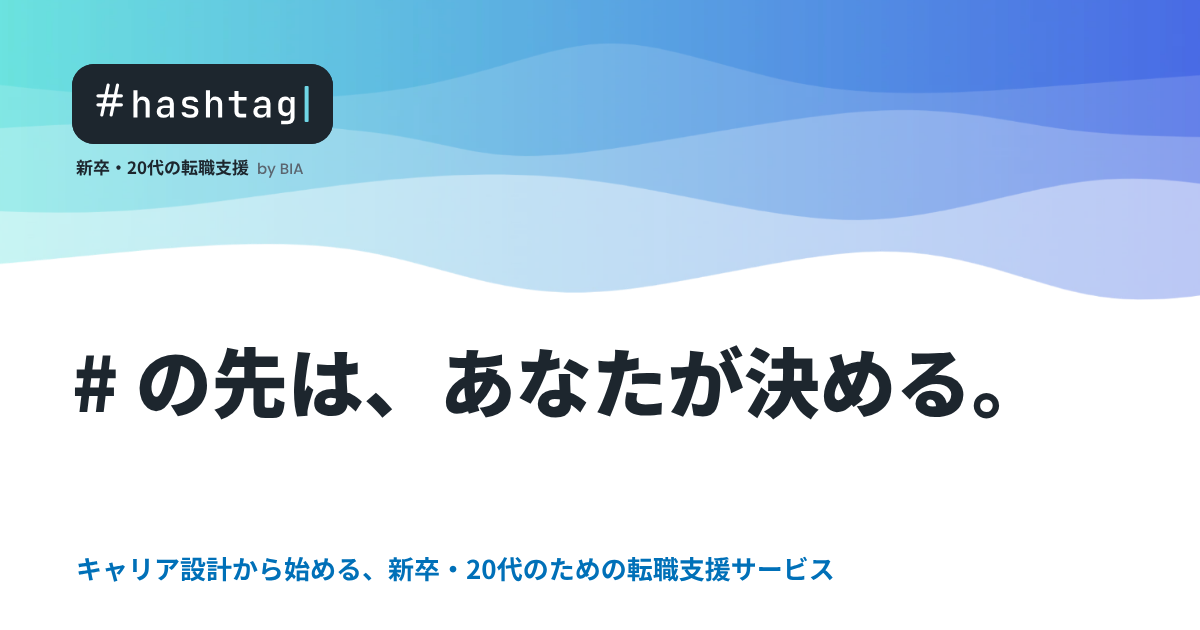
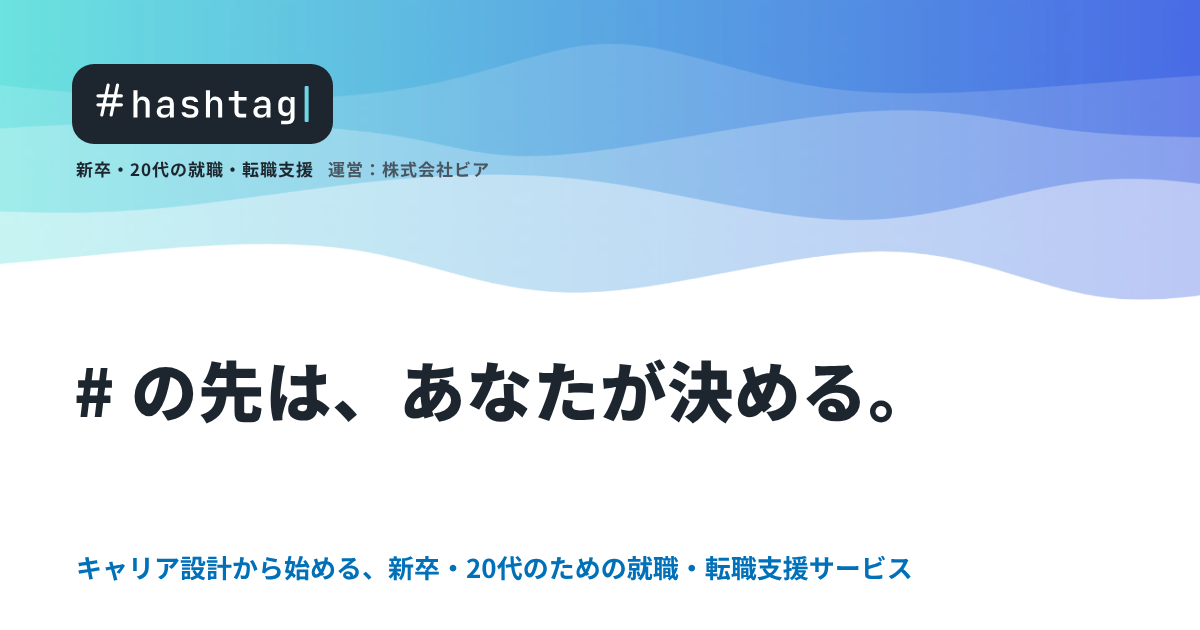
PR #11 の答え：ハッシュタグの OGP を作り直す・事業紹介を 3 ページとも 1 枚のカードに・「20代」を詰める・LINE ボタン・「私たち」・「若者一人ひとり」
- assets/ogp.png：新卒・20代の就職・転職支援／運営：株式会社ビア
- 事業紹介：会社概要・採用もトップと同じ「ハッシュタグ 1 つに入口 2 つ」（assets/svc-card.css に共通の部品）
- 「20 代」→「20代」（13 か所。プライバシーポリシーの本文は除く）
- コラム・求人一覧・求人の相談の帯にも「LINE で気軽に相談」
- 企業の方へ「弊社」→「私たち」、会社概要「彼ら」→「若者一人ひとり」
- DESIGN-SPEC.md 17 章（パーパスを変えるときの 3 か所・20代・事業紹介）・HANDOFF.md

Claude-Session: https://claude.ai/code/session_01PMMetS7xVfNc5fbuo4o25V

diff --git a/hashtag/faq.html b/hashtag/faq.html
@@ -22,7 +22,7 @@
 <link rel="preconnect" href="https://fonts.gstatic.com" crossorigin>
 <link href="https://fonts.googleapis.com/css2?family=Noto+Sans+JP:wght@400;700;900&family=Poppins:wght@400;500;600&display=swap" rel="stylesheet">
 <link rel="stylesheet" href="/assets/site.css">
-<script type="application/ld+json">{"@context": "https://schema.org", "@type": "FAQPage", "mainEntity": [{"@type": "Question", "name": "相談にお金はかかりますか？", "acceptedAnswer": {"@type": "Answer", "text": "いいえ、すべて無料です。「まだ転職するか決めていない」「話を聞いてみたいだけ」でも大歓迎です。面談では、あなたの強み・市場価値の目安・未来へのキャリアの設計図をお持ち帰りいただけます。"}}, {"@type": "Question", "name": "面談だけでも意味はありますか？", "acceptedAnswer": {"@type": "Answer", "text": "もちろんです。自分の強みを言葉にし、今の経験でどのくらいの年収が目指せるかを知り、叶えたい未来への道のりを設計図にしてお渡しします。転職しなくても、これからのキャリアの地図になります。"}}, {"@type": "Question", "name": "仕事が忙しくて、時間がとれません", "acceptedAnswer": {"@type": "Answer", "text": "平日の夜や土日も面談できます。全国どこからでもオンラインで、まずは LINE や電話で気軽にご相談いただくこともできます。"}}, {"@type": "Question", "name": "やりたいことが、まだ決まっていません", "acceptedAnswer": {"@type": "Answer", "text": "むしろ大歓迎です。それを一緒に見つけるのが、ハッシュタグの面談です。「なんとなくモヤモヤする」からで大丈夫です。"}}, {"@type": "Question", "name": "自分の市場価値や、年収の目安を知りたいです", "acceptedAnswer": {"@type": "Answer", "text": "面談でお伝えします。今の経験やスキルなら、どんな会社でどのくらいの年収が目指せるのかを、具体的にお話しします。"}}, {"@type": "Question", "name": "履歴書・職務経歴書の書き方がわかりません", "acceptedAnswer": {"@type": "Answer", "text": "ご安心ください。お話を伺いながら、書類はこちらで作成します。あなたの強みが伝わる形に仕上げます。"}}, {"@type": "Question", "name": "面接の練習はしてもらえますか？", "acceptedAnswer": {"@type": "Answer", "text": "はい、何回でも。人事・採用の経験があるアドバイザーが、企業側の目線で練習にお付き合いします。自信を持って本番に臨めるまで準備しましょう。"}}, {"@type": "Question", "name": "どんな会社を紹介してもらえますか？", "acceptedAnswer": {"@type": "Answer", "text": "一般には出ていない非公開の求人も含めて、あなたの # に近づける会社だけを厳選してご提案します。"}}, {"@type": "Question", "name": "どのくらいで転職できますか？", "acceptedAnswer": {"@type": "Answer", "text": "最短で当日に面談でき、早い方では 2 週間ほどで内定が出ます。もちろん、あなたのペースに合わせて進めます。"}}, {"@type": "Question", "name": "どんな人が担当してくれますか？", "acceptedAnswer": {"@type": "Answer", "text": "20 代のアドバイザーが多く、年の近い目線で気軽に話せます。合わないと感じたら、担当を変えることもできます。"}}, {"@type": "Question", "name": "入社したあとも相談できますか？", "acceptedAnswer": {"@type": "Answer", "text": "はい。入社後の悩みや、次のキャリアの相談にものります。あなたの # を叶えるまで伴走します。"}}, {"@type": "Question", "name": "転職するか迷っていても相談していいですか？", "acceptedAnswer": {"@type": "Answer", "text": "もちろんです。無理に転職をおすすめすることはありません。今の会社で叶えられる道が見つかれば、それも大切な答えです。"}}, {"@type": "Question", "name": "何歳まで相談できますか？", "acceptedAnswer": {"@type": "Answer", "text": "20 代の方を中心にご支援しています。"}}, {"@type": "Question", "name": "しつこく連絡されませんか？", "acceptedAnswer": {"@type": "Answer", "text": "ご連絡は、LINE・メール・電話のうちご希望の方法で、必要なときだけです。転職を急かすことはありません。"}}, {"@type": "Question", "name": "個人情報はどのように扱われますか？", "acceptedAnswer": {"@type": "Answer", "text": "いただいた情報は、転職のご支援のためだけに使い、プライバシーポリシーにしたがって大切に管理します。"}}]}</script>
+<script type="application/ld+json">{"@context": "https://schema.org", "@type": "FAQPage", "mainEntity": [{"@type": "Question", "name": "相談にお金はかかりますか？", "acceptedAnswer": {"@type": "Answer", "text": "いいえ、すべて無料です。「まだ転職するか決めていない」「話を聞いてみたいだけ」でも大歓迎です。面談では、あなたの強み・市場価値の目安・未来へのキャリアの設計図をお持ち帰りいただけます。"}}, {"@type": "Question", "name": "面談だけでも意味はありますか？", "acceptedAnswer": {"@type": "Answer", "text": "もちろんです。自分の強みを言葉にし、今の経験でどのくらいの年収が目指せるかを知り、叶えたい未来への道のりを設計図にしてお渡しします。転職しなくても、これからのキャリアの地図になります。"}}, {"@type": "Question", "name": "仕事が忙しくて、時間がとれません", "acceptedAnswer": {"@type": "Answer", "text": "平日の夜や土日も面談できます。全国どこからでもオンラインで、まずは LINE や電話で気軽にご相談いただくこともできます。"}}, {"@type": "Question", "name": "やりたいことが、まだ決まっていません", "acceptedAnswer": {"@type": "Answer", "text": "むしろ大歓迎です。それを一緒に見つけるのが、ハッシュタグの面談です。「なんとなくモヤモヤする」からで大丈夫です。"}}, {"@type": "Question", "name": "自分の市場価値や、年収の目安を知りたいです", "acceptedAnswer": {"@type": "Answer", "text": "面談でお伝えします。今の経験やスキルなら、どんな会社でどのくらいの年収が目指せるのかを、具体的にお話しします。"}}, {"@type": "Question", "name": "履歴書・職務経歴書の書き方がわかりません", "acceptedAnswer": {"@type": "Answer", "text": "ご安心ください。お話を伺いながら、書類はこちらで作成します。あなたの強みが伝わる形に仕上げます。"}}, {"@type": "Question", "name": "面接の練習はしてもらえますか？", "acceptedAnswer": {"@type": "Answer", "text": "はい、何回でも。人事・採用の経験があるアドバイザーが、企業側の目線で練習にお付き合いします。自信を持って本番に臨めるまで準備しましょう。"}}, {"@type": "Question", "name": "どんな会社を紹介してもらえますか？", "acceptedAnswer": {"@type": "Answer", "text": "一般には出ていない非公開の求人も含めて、あなたの # に近づける会社だけを厳選してご提案します。"}}, {"@type": "Question", "name": "どのくらいで転職できますか？", "acceptedAnswer": {"@type": "Answer", "text": "最短で当日に面談でき、早い方では 2 週間ほどで内定が出ます。もちろん、あなたのペースに合わせて進めます。"}}, {"@type": "Question", "name": "どんな人が担当してくれますか？", "acceptedAnswer": {"@type": "Answer", "text": "20代のアドバイザーが多く、年の近い目線で気軽に話せます。合わないと感じたら、担当を変えることもできます。"}}, {"@type": "Question", "name": "入社したあとも相談できますか？", "acceptedAnswer": {"@type": "Answer", "text": "はい。入社後の悩みや、次のキャリアの相談にものります。あなたの # を叶えるまで伴走します。"}}, {"@type": "Question", "name": "転職するか迷っていても相談していいですか？", "acceptedAnswer": {"@type": "Answer", "text": "もちろんです。無理に転職をおすすめすることはありません。今の会社で叶えられる道が見つかれば、それも大切な答えです。"}}, {"@type": "Question", "name": "何歳まで相談できますか？", "acceptedAnswer": {"@type": "Answer", "text": "20代の方を中心にご支援しています。"}}, {"@type": "Question", "name": "しつこく連絡されませんか？", "acceptedAnswer": {"@type": "Answer", "text": "ご連絡は、LINE・メール・電話のうちご希望の方法で、必要なときだけです。転職を急かすことはありません。"}}, {"@type": "Question", "name": "個人情報はどのように扱われますか？", "acceptedAnswer": {"@type": "Answer", "text": "いただいた情報は、転職のご支援のためだけに使い、プライバシーポリシーにしたがって大切に管理します。"}}]}</script>
 <link rel="preload" href="/assets/fonts/jetbrains-mono-latin-500-normal.woff2" as="font" type="font/woff2" crossorigin>
 <link rel="stylesheet" href="/assets/header.css">
 </head>
@@ -57,7 +57,7 @@
 <section id="faq">
   <div class="wrap">
     <div class="sec-head"><p class="en-big" aria-hidden="true">QUESTIONS</p><h2>ご相談の前に</h2></div>
-    <div class="faq"><details><summary>相談にお金はかかりますか？</summary><p>いいえ、すべて無料です。「まだ転職するか決めていない」「話を聞いてみたいだけ」でも大歓迎です。面談では、あなたの強み・市場価値の目安・未来へのキャリアの設計図をお持ち帰りいただけます。</p></details><details><summary>面談だけでも意味はありますか？</summary><p>もちろんです。自分の強みを言葉にし、今の経験でどのくらいの年収が目指せるかを知り、叶えたい未来への道のりを設計図にしてお渡しします。転職しなくても、これからのキャリアの地図になります。</p></details><details><summary>仕事が忙しくて、時間がとれません</summary><p>平日の夜や土日も面談できます。全国どこからでもオンラインで、まずは <a href="https://lin.ee/qq1v7gG" data-line target="_blank" rel="noopener">LINE<span class="sr">（LINE が開きます）</span></a> や電話で気軽にご相談いただくこともできます。</p></details><details><summary>やりたいことが、まだ決まっていません</summary><p>むしろ大歓迎です。それを一緒に見つけるのが、ハッシュタグの面談です。「なんとなくモヤモヤする」からで大丈夫です。</p></details><details><summary>自分の市場価値や、年収の目安を知りたいです</summary><p>面談でお伝えします。今の経験やスキルなら、どんな会社でどのくらいの年収が目指せるのかを、具体的にお話しします。</p></details><details><summary>履歴書・職務経歴書の書き方がわかりません</summary><p>ご安心ください。お話を伺いながら、書類はこちらで作成します。あなたの強みが伝わる形に仕上げます。</p></details><details><summary>面接の練習はしてもらえますか？</summary><p>はい、何回でも。人事・採用の経験があるアドバイザーが、企業側の目線で練習にお付き合いします。自信を持って本番に臨めるまで準備しましょう。</p></details><details><summary>どんな会社を紹介してもらえますか？</summary><p>一般には出ていない非公開の求人も含めて、あなたの # に近づける会社だけを厳選してご提案します。</p></details><details><summary>どのくらいで転職できますか？</summary><p>最短で当日に面談でき、早い方では 2 週間ほどで内定が出ます。もちろん、あなたのペースに合わせて進めます。</p></details><details><summary>どんな人が担当してくれますか？</summary><p>20 代のアドバイザーが多く、年の近い目線で気軽に話せます。合わないと感じたら、担当を変えることもできます。</p></details><details><summary>入社したあとも相談できますか？</summary><p>はい。入社後の悩みや、次のキャリアの相談にものります。あなたの # を叶えるまで伴走します。</p></details><details><summary>転職するか迷っていても相談していいですか？</summary><p>もちろんです。無理に転職をおすすめすることはありません。今の会社で叶えられる道が見つかれば、それも大切な答えです。</p></details><details><summary>何歳まで相談できますか？</summary><p>20 代の方を中心にご支援しています。</p></details><details><summary>しつこく連絡されませんか？</summary><p>ご連絡は、LINE・メール・電話のうちご希望の方法で、必要なときだけです。転職を急かすことはありません。</p></details><details><summary>個人情報はどのように扱われますか？</summary><p>いただいた情報は、転職のご支援のためだけに使い、<a href="/privacy">プライバシーポリシー</a>にしたがって大切に管理します。</p></details></div>
+    <div class="faq"><details><summary>相談にお金はかかりますか？</summary><p>いいえ、すべて無料です。「まだ転職するか決めていない」「話を聞いてみたいだけ」でも大歓迎です。面談では、あなたの強み・市場価値の目安・未来へのキャリアの設計図をお持ち帰りいただけます。</p></details><details><summary>面談だけでも意味はありますか？</summary><p>もちろんです。自分の強みを言葉にし、今の経験でどのくらいの年収が目指せるかを知り、叶えたい未来への道のりを設計図にしてお渡しします。転職しなくても、これからのキャリアの地図になります。</p></details><details><summary>仕事が忙しくて、時間がとれません</summary><p>平日の夜や土日も面談できます。全国どこからでもオンラインで、まずは <a href="https://lin.ee/qq1v7gG" data-line target="_blank" rel="noopener">LINE<span class="sr">（LINE が開きます）</span></a> や電話で気軽にご相談いただくこともできます。</p></details><details><summary>やりたいことが、まだ決まっていません</summary><p>むしろ大歓迎です。それを一緒に見つけるのが、ハッシュタグの面談です。「なんとなくモヤモヤする」からで大丈夫です。</p></details><details><summary>自分の市場価値や、年収の目安を知りたいです</summary><p>面談でお伝えします。今の経験やスキルなら、どんな会社でどのくらいの年収が目指せるのかを、具体的にお話しします。</p></details><details><summary>履歴書・職務経歴書の書き方がわかりません</summary><p>ご安心ください。お話を伺いながら、書類はこちらで作成します。あなたの強みが伝わる形に仕上げます。</p></details><details><summary>面接の練習はしてもらえますか？</summary><p>はい、何回でも。人事・採用の経験があるアドバイザーが、企業側の目線で練習にお付き合いします。自信を持って本番に臨めるまで準備しましょう。</p></details><details><summary>どんな会社を紹介してもらえますか？</summary><p>一般には出ていない非公開の求人も含めて、あなたの # に近づける会社だけを厳選してご提案します。</p></details><details><summary>どのくらいで転職できますか？</summary><p>最短で当日に面談でき、早い方では 2 週間ほどで内定が出ます。もちろん、あなたのペースに合わせて進めます。</p></details><details><summary>どんな人が担当してくれますか？</summary><p>20代のアドバイザーが多く、年の近い目線で気軽に話せます。合わないと感じたら、担当を変えることもできます。</p></details><details><summary>入社したあとも相談できますか？</summary><p>はい。入社後の悩みや、次のキャリアの相談にものります。あなたの # を叶えるまで伴走します。</p></details><details><summary>転職するか迷っていても相談していいですか？</summary><p>もちろんです。無理に転職をおすすめすることはありません。今の会社で叶えられる道が見つかれば、それも大切な答えです。</p></details><details><summary>何歳まで相談できますか？</summary><p>20代の方を中心にご支援しています。</p></details><details><summary>しつこく連絡されませんか？</summary><p>ご連絡は、LINE・メール・電話のうちご希望の方法で、必要なときだけです。転職を急かすことはありません。</p></details><details><summary>個人情報はどのように扱われますか？</summary><p>いただいた情報は、転職のご支援のためだけに使い、<a href="/privacy">プライバシーポリシー</a>にしたがって大切に管理します。</p></details></div>
   </div>
 </section>
 <section id="contact" class="alt">

diff --git a/recruit.html b/recruit.html
@@ -25,6 +25,7 @@
 <link rel="preload" href="/assets/fonts/jetbrains-mono-latin-500-normal.woff2" as="font" type="font/woff2" crossorigin>
 <link rel="stylesheet" href="/assets/header.css">
 <link rel="stylesheet" href="/assets/recruit.css">
+<link rel="stylesheet" href="/assets/svc-card.css">
 </head>
 <body>
 <!-- 採用ページ（BIA のページ）。決まりは docs/DESIGN-SPEC.md 12 章。【仮】の所は、決まったら文を差し替える -->
@@ -72,7 +73,7 @@
   <dl class="rc-philo">
     <div class="card"><dt><span class="en" lang="en">PURPOSE</span>パーパス</dt><dd><span data-philo="purpose">若者のポテンシャルを解放する。</span><span class="rc-philo-en" lang="en" data-philo="purpose-en">Unleash the potential of youth.</span></dd></div>
     <div class="card"><dt><span class="en" lang="en">MISSION</span>ミッション</dt><dd data-philo="mission">一人ひとりの「叶えたい未来」を言葉にし、そこへ近づくキャリアを一緒につくる。</dd></div>
-    <div class="card"><dt><span class="en" lang="en">VISION</span>ビジョン</dt><dd data-philo="vision">20 代が「自分の #」で仕事を選ぶのが、当たり前の社会へ。</dd></div>
+    <div class="card"><dt><span class="en" lang="en">VISION</span>ビジョン</dt><dd data-philo="vision">20代が「自分の #」で仕事を選ぶのが、当たり前の社会へ。</dd></div>
   </dl>
 </section>
 
@@ -80,7 +81,7 @@
 <section id="appeal" data-toc="appeal">
   <div class="sec-head"><p class="en-big" aria-hidden="true">WHY BIA</p><h2>働く魅力</h2></div>
   <ol class="rc-appeal">
-    <li class="card"><p class="en rc-no">01</p><div><h3>20 代から裁量が大きい</h3><p>年齢や入社歴に関係なく、成果を出した人に大きな仕事を任せます。</p></div></li>
+    <li class="card"><p class="en rc-no">01</p><div><h3>20代から裁量が大きい</h3><p>年齢や入社歴に関係なく、成果を出した人に大きな仕事を任せます。</p></div></li>
     <li class="card"><p class="en rc-no">02</p><div><h3>会社の成長を一緒につくれる</h3><p>設立 6 年目のいまだからこそ、仕組みや文化を自分の手でつくれます。</p></div></li>
     <li class="card"><p class="en rc-no">03</p><div><h3>人の人生に深く関われる</h3><p>一人ひとりの「叶えたい未来」に向き合い、人生の分岐点を支える仕事です。</p></div></li>
   </ol>
@@ -89,9 +90,19 @@
 <!-- ===== PHILOSOPHY の続き：事業内容 ===== -->
 <section id="business" class="rc-cont" data-toc="philosophy">
   <h3 class="rc-h3">事業内容</h3>
-  <div class="grid g2">
-    <a class="card line rc-link-card" href="/hashtag/"><h4>ハッシュタグ（新卒・20代の就職・転職支援）</h4><p>新卒・第二新卒・既卒・フリーターの方に、キャリア設計から始めるオーダーメイド型の就職・転職支援を行います。</p><span class="more">ハッシュタグを見る →</span></a>
-    <a class="card line rc-link-card" href="/corp.html"><h4>人材紹介・採用コンサルティング（企業の方へ）</h4><p>企業向けに、新卒・20代の人材紹介と、オーダーメイド型の採用コンサルティングを行います。母集団形成から選考フェーズまで支援します。</p><span class="more">企業の方へ →</span></a>
+  <!-- 事業は「ハッシュタグ」1 つ（求職者向け・企業向けの両方を持つ）。大きなカード 1 枚に、入口を 2 つ -->
+  <div class="co-svc card">
+    <div class="co-svc-head">
+      <span class="co-svc-logo" role="img" aria-label="hashtag"><svg class="hash" viewBox="0 0 40 40" width="22" height="22" aria-hidden="true"><g stroke="#fff" stroke-width="2.6" stroke-linecap="round" fill="none"><line x1="17" y1="6" x2="13" y2="34"/><line x1="28" y1="6" x2="24" y2="34"/><line x1="8" y1="15" x2="34" y2="15"/><line x1="6" y1="25" x2="32" y2="25"/></g></svg><span class="name">hashtag</span><span class="caret" aria-hidden="true"></span></span>
+      <div>
+        <h4>ハッシュタグ<span>新卒・20代の就職・転職支援／人材紹介・採用コンサルティング</span></h4>
+        <p>求職者の「叶えたい未来」と、企業の採用をつなぐサービスです。新卒・第二新卒・既卒・フリーターの方にはキャリア設計から始める就職・転職支援を、企業には人材紹介・採用コンサルティングを行います。</p>
+      </div>
+    </div>
+    <div class="co-svc-doors">
+      <a href="/hashtag/"><span class="co-biz-label" lang="en">FOR JOB SEEKERS</span><strong>求職者の方</strong><span>新卒・20代の就職・転職支援</span><span class="co-door-arw" aria-hidden="true">→</span></a>
+      <a href="/corp.html"><span class="co-biz-label" lang="en">FOR BUSINESS</span><strong>企業の方</strong><span>人材紹介・採用コンサルティング</span><span class="co-door-arw" aria-hidden="true">→</span></a>
+    </div>
   </div>
 </section>
 
@@ -126,7 +137,7 @@
   <ul class="rc-nums">
     <li class="card"><p class="rc-num"><span class="en">2021</span><small>年</small></p><h3>設立</h3></li>
     <li class="card"><p class="rc-num"><span class="rc-pre">約</span><span class="en">27</span><small>歳</small></p><h3>平均年齢</h3></li>
-    <li class="card"><p class="rc-num"><span class="rc-pre">約</span><span class="en">60</span><small>%</small></p><h3>20 代の割合</h3></li>
+    <li class="card"><p class="rc-num"><span class="rc-pre">約</span><span class="en">60</span><small>%</small></p><h3>20代の割合</h3></li>
     <li class="card"><p class="rc-num"><span class="en">125</span><small>日</small></p><h3>年間休日</h3></li>
     <li class="card"><p class="rc-num"><span class="rc-pre">月</span><span class="en">1</span><small>回</small></p><h3>上司との 1on1</h3></li>
   </ul>
@@ -156,7 +167,7 @@
     <details><summary>新卒・若手でも、大きな仕事を任せてもらえますか？</summary><p>任せます。年功序列はなく、役職や入社歴に関係なく抜擢するカルチャーです。新卒でもインターンでも、成果を出している人にボールを渡します。</p></details>
     <details><summary>少人数の会社で、どんな働き方をしていますか？</summary><p>社内の業務の多くを AI で自動化し、手間を減らしています。そのぶん、求職者や企業と向き合う時間と、成果を出すための時間に集中できます。</p></details>
     <details><summary>目標や評価はどう決まりますか？</summary><p>高い目標を本気で目指すメンバーが集まっています。楽な環境ではありませんが、出した成果は評価とインセンティブでしっかり返ります。</p></details>
-    <details><summary>どんな人が向いていますか？</summary><p>高い目標に本気で挑み、自分で考えて動ける人。20 代のうちに圧倒的に成長したい人です。</p></details>
+    <details><summary>どんな人が向いていますか？</summary><p>高い目標に本気で挑み、自分で考えて動ける人。20代のうちに圧倒的に成長したい人です。</p></details>
     <details><summary>その先のキャリアはどうなりますか？</summary><p>成果を出せば、入社歴に関係なく、マネジメントや新しい事業を任せます。会社の成長が、そのままあなたの挑戦の場になります。</p></details>
   </div>
 </section>

diff --git a/company.html b/company.html
@@ -104,6 +104,7 @@ body{background:#F4F6F8}
 </style>
 <link rel="preload" href="/assets/fonts/jetbrains-mono-latin-500-normal.woff2" as="font" type="font/woff2" crossorigin>
 <link rel="stylesheet" href="/assets/header.css">
+<link rel="stylesheet" href="/assets/svc-card.css">
 </head>
 <body>
 <div class="fv">
@@ -134,15 +135,25 @@ body{background:#F4F6F8}
     <div class="sec-head"><p class="en-big" aria-hidden="true">PURPOSE</p><h2>パーパス</h2></div>
     <!-- パーパスの文は assets/philosophy.js（全サイトで 1 か所） -->
     <p class="vision" data-philo="purpose">若者のポテンシャルを解放する。</p>
-    <p class="body">私たちは、若者が持つ無限の可能性に光を当て、それを解放するために存在しています。各々が持つユニークな才能やスキルを見出し、育て、そして適切な場所に彼らを導くことで、彼ら自身も社会もより良い未来を築くことができると信じています。私たちの役割は、単に仕事を紹介すること以上に、若者一人ひとりがその真の力を理解し、活かせるよう支援することです。この存在意義のもとで、私たちは情熱を持って取り組んでまいります。</p>
+    <p class="body">私たちは、若者が持つ無限の可能性に光を当て、それを解放するために存在しています。各々が持つユニークな才能やスキルを見出し、育て、そして若者一人ひとりを適切な場所に導くことで、若者自身も社会もより良い未来を築くことができると信じています。私たちの役割は、単に仕事を紹介すること以上に、若者一人ひとりがその真の力を理解し、活かせるよう支援することです。この存在意義のもとで、私たちは情熱を持って取り組んでまいります。</p>
   </div>
 </section>
 <section id="service" class="alt">
   <div class="wrap">
     <div class="sec-head"><p class="en-big" aria-hidden="true">SERVICE</p><h2>事業内容</h2></div>
-    <div class="grid">
-      <a class="card" href="/hashtag/"><h3>ハッシュタグ（新卒・20代の就職・転職支援）</h3><p>新卒・第二新卒・既卒・フリーターの方に、キャリア設計から始めるオーダーメイド型の就職・転職支援を行います。</p><span class="more">ハッシュタグを見る →</span></a>
-      <a class="card" href="/corp.html"><h3>人材紹介・採用コンサルティング（企業の方へ）</h3><p>企業向けに、新卒・20代の人材紹介と、オーダーメイド型の採用コンサルティングを行います。母集団形成から選考フェーズまで支援します。</p><span class="more">企業の方へ →</span></a>
+    <!-- 事業は「ハッシュタグ」1 つ（求職者向け・企業向けの両方を持つ）。大きなカード 1 枚に、入口を 2 つ -->
+    <div class="co-svc card">
+      <div class="co-svc-head">
+        <span class="co-svc-logo" role="img" aria-label="hashtag"><svg class="hash" viewBox="0 0 40 40" width="22" height="22" aria-hidden="true"><g stroke="#fff" stroke-width="2.6" stroke-linecap="round" fill="none"><line x1="17" y1="6" x2="13" y2="34"/><line x1="28" y1="6" x2="24" y2="34"/><line x1="8" y1="15" x2="34" y2="15"/><line x1="6" y1="25" x2="32" y2="25"/></g></svg><span class="name">hashtag</span><span class="caret" aria-hidden="true"></span></span>
+        <div>
+          <h3>ハッシュタグ<span>新卒・20代の就職・転職支援／人材紹介・採用コンサルティング</span></h3>
+          <p>求職者の「叶えたい未来」と、企業の採用をつなぐサービスです。新卒・第二新卒・既卒・フリーターの方にはキャリア設計から始める就職・転職支援を、企業には人材紹介・採用コンサルティングを行います。</p>
+        </div>
+      </div>
+      <div class="co-svc-doors">
+        <a href="/hashtag/"><span class="co-biz-label" lang="en">FOR JOB SEEKERS</span><strong>求職者の方</strong><span>新卒・20代の就職・転職支援</span><span class="co-door-arw" aria-hidden="true">→</span></a>
+        <a href="/corp.html"><span class="co-biz-label" lang="en">FOR BUSINESS</span><strong>企業の方</strong><span>人材紹介・採用コンサルティング</span><span class="co-door-arw" aria-hidden="true">→</span></a>
+      </div>
     </div>
   </div>
 </section>

diff --git a/index.html b/index.html
@@ -25,6 +25,7 @@
 <link rel="preload" href="/assets/fonts/jetbrains-mono-latin-500-normal.woff2" as="font" type="font/woff2" crossorigin>
 <link rel="stylesheet" href="/assets/header.css">
 <link rel="stylesheet" href="/assets/bia.css">
+<link rel="stylesheet" href="/assets/svc-card.css">
 <!-- オープニング（DESIGN-SPEC.md 16 章）。描く前に覆うため <head> で読む -->
 <script src="/assets/config.js"></script>
 <script src="/assets/intro-bia.js"></script>
@@ -65,7 +66,7 @@
     <dl class="co-philo">
       <div class="card"><dt><span class="en" lang="en">PURPOSE</span>パーパス</dt><dd><span data-philo="purpose">若者のポテンシャルを解放する。</span><span class="co-philo-en" lang="en" data-philo="purpose-en">Unleash the potential of youth.</span></dd></div>
       <div class="card"><dt><span class="en" lang="en">MISSION</span>ミッション</dt><dd data-philo="mission">一人ひとりの「叶えたい未来」を言葉にし、そこへ近づくキャリアを一緒につくる。</dd></div>
-      <div class="card"><dt><span class="en" lang="en">VISION</span>ビジョン</dt><dd data-philo="vision">20 代が「自分の #」で仕事を選ぶのが、当たり前の社会へ。</dd></div>
+      <div class="card"><dt><span class="en" lang="en">VISION</span>ビジョン</dt><dd data-philo="vision">20代が「自分の #」で仕事を選ぶのが、当たり前の社会へ。</dd></div>
     </dl>
   </div>
 </section>
@@ -75,10 +76,10 @@
     <!-- 事業は「ハッシュタグ」1 つ（求職者向け・企業向けの両方を持つ）。大きなカード 1 枚に、入口を 2 つ -->
     <div class="co-svc card">
       <div class="co-svc-head">
-        <span class="logo co-svc-logo" role="img" aria-label="hashtag"><svg class="hash" viewBox="0 0 40 40" width="22" height="22" aria-hidden="true"><g stroke="#fff" stroke-width="2.6" stroke-linecap="round" fill="none"><line x1="17" y1="6" x2="13" y2="34"/><line x1="28" y1="6" x2="24" y2="34"/><line x1="8" y1="15" x2="34" y2="15"/><line x1="6" y1="25" x2="32" y2="25"/></g></svg><span class="name">hashtag</span><span class="caret" aria-hidden="true"></span></span>
+        <span class="co-svc-logo" role="img" aria-label="hashtag"><svg class="hash" viewBox="0 0 40 40" width="22" height="22" aria-hidden="true"><g stroke="#fff" stroke-width="2.6" stroke-linecap="round" fill="none"><line x1="17" y1="6" x2="13" y2="34"/><line x1="28" y1="6" x2="24" y2="34"/><line x1="8" y1="15" x2="34" y2="15"/><line x1="6" y1="25" x2="32" y2="25"/></g></svg><span class="name">hashtag</span><span class="caret" aria-hidden="true"></span></span>
         <div>
           <h3>ハッシュタグ<span>新卒・20代の就職・転職支援／人材紹介・採用コンサルティング</span></h3>
-          <p>求職者の「叶えたい未来」と、企業の採用をつなぐサービスです。求職者にはキャリア設計から始める就職・転職支援を、企業には人材紹介・採用コンサルティングを行います。</p>
+          <p>求職者の「叶えたい未来」と、企業の採用をつなぐサービスです。新卒・第二新卒・既卒・フリーターの方にはキャリア設計から始める就職・転職支援を、企業には人材紹介・採用コンサルティングを行います。</p>
         </div>
       </div>
       <div class="co-svc-doors">

diff --git a/assets/bia.css b/assets/bia.css
@@ -15,31 +15,6 @@
 .co-philo dt .en{display:block;font-weight:600;font-size:13px;letter-spacing:3px;color:#0070B8}
 .co-philo dd{margin:10px 0 0;font-size:17px;font-weight:700;line-height:1.7;color:var(--ink)}
 .co-philo .co-philo-en{display:block;margin-top:6px;font-family:Poppins,sans-serif;font-size:13px;font-weight:400;color:var(--muted)}
-/* 事業紹介：ハッシュタグ 1 つ（大きなカード）に、求職者の方・企業の方の 2 つの入口 */
-.co-svc{padding:40px 40px 36px}
-.co-svc-head{display:flex;gap:32px;align-items:flex-start}
-.co-svc-logo{height:64px;padding:0 28px;flex:none}
-.co-svc-logo .hash{width:29px;height:29px}
-.co-svc-logo .name{font-size:29px}
-.co-svc-logo .caret{height:28px}
-.co-svc h3{margin:0 0 8px !important;font-size:24px !important}
-.co-svc h3 span{display:block;margin-top:2px;font-size:14px;font-weight:700;color:#0070B8}
-.co-svc-head p{margin:0;font-size:15px;color:var(--sub)}
-.co-svc-doors{display:grid;gap:16px;grid-template-columns:repeat(2,minmax(0,1fr));margin-top:28px}
-.co-svc-doors a{position:relative;display:flex;flex-direction:column;gap:2px;padding:22px 56px 22px 24px;border:1.5px solid var(--navy);border-radius:20px;color:var(--navy);text-decoration:none;transition:background .2s,color .2s}
-.co-svc-doors a:hover{background:var(--navy);color:#fff}
-.co-svc-doors a:hover .co-biz-label,.co-svc-doors a:hover span{color:#fff}
-.co-svc-doors strong{font-size:20px;font-weight:900}
-.co-svc-doors span{font-size:14px;color:var(--sub)}
-.co-biz-label{margin:0;font-family:Poppins,sans-serif;font-weight:600;font-size:13px;letter-spacing:2px;color:#0070B8 !important}
-.co-door-arw{position:absolute;right:22px;top:50%;transform:translateY(-50%);font-size:22px !important;color:inherit !important}
-@media (max-width:860px){
-  .co-svc{padding:28px 20px}
-  .co-svc-head{flex-direction:column;gap:18px}
-  .co-svc-logo{height:52px;padding:0 22px}
-  .co-svc-logo .hash{width:23px;height:23px}.co-svc-logo .name{font-size:23px}.co-svc-logo .caret{height:22px}
-  .co-svc-doors{grid-template-columns:minmax(0,1fr)}
-}
 /* 採用への案内の帯 */
 .co-band .wrap{padding-top:72px;padding-bottom:72px;text-align:center}
 .co-band h2{margin:8px 0 24px;font-size:clamp(22px,3vw,32px);font-weight:900}
@@ -58,7 +33,7 @@
   .co-philo,.ct-choose{grid-template-columns:minmax(0,1fr)}
   .ct-choose button{min-height:0}
 }
-@media (prefers-reduced-motion:reduce){ .co-svc-doors a,.ct-choose button{transition:none} }
+@media (prefers-reduced-motion:reduce){ .ct-choose button{transition:none} }
 
 /* 会社のトップのオープニング（assets/intro-bia.js。DESIGN-SPEC.md 16 章）
    地 #F4F6F8 → BIA のロゴがふわっと → ビジョンを水色のカーソルで打ち込む → 見出しの位置へ（縮めたのを戻す）→ 地が消える */

diff --git a/assets/svc-card.css b/assets/svc-card.css
@@ -1,0 +1,29 @@
+/* ===== 事業紹介のカード：ハッシュタグ 1 つ（大きなカード）に、求職者の方・企業の方の 2 つの入口 =====
+   会社のトップ・会社概要・採用ページで同じ部品（DESIGN-SPEC.md 17 章）。site.css が無いページ（会社概要）でも使えるように、ここだけで見た目が決まる */
+.co-svc{display:block;background:#fff;border-radius:24px;padding:40px 40px 36px;border:0;color:#1D262E;text-align:left}
+.co-svc-head{display:flex;gap:32px;align-items:flex-start}
+.co-svc-logo{display:inline-flex;align-items:center;flex:none;gap:11px;height:64px;padding:0 28px;border-radius:999px;background:#1D262E;color:#fff}
+.co-svc-logo .hash{display:block;width:29px;height:29px;flex:none}
+.co-svc-logo .name{font-family:"JetBrains Mono",ui-monospace,monospace;font-weight:500;font-size:29px;letter-spacing:1.3px;line-height:1;margin-right:-.228em}
+.co-svc-logo .caret{display:inline-block;width:3px;height:28px;border-radius:2px;background:#6FD6E6;animation:caret 1.06s step-end infinite}
+.co-svc .co-svc-head h3,.co-svc .co-svc-head h4{margin:0 0 8px;font-size:24px;font-weight:900;line-height:1.5;color:#1D262E}
+.co-svc .co-svc-head h3 span,.co-svc .co-svc-head h4 span{display:block;margin-top:2px;font-size:14px;font-weight:700;color:#0070B8}
+.co-svc-head p{margin:0;font-size:15px;line-height:1.8;color:#4A5560}
+.co-svc-doors{display:grid;gap:16px;grid-template-columns:repeat(2,minmax(0,1fr));margin-top:28px}
+.co-svc-doors a{position:relative;display:flex;flex-direction:column;gap:2px;padding:22px 56px 22px 24px;border:1.5px solid #1D262E;border-radius:20px;color:#1D262E;text-decoration:none;transition:background .2s,color .2s}
+.co-svc-doors a:hover{background:#1D262E;color:#fff}
+.co-svc-doors a:hover .co-biz-label,.co-svc-doors a:hover span{color:#fff}
+.co-svc-doors strong{font-size:20px;font-weight:900}
+.co-svc-doors span{font-size:14px;color:#4A5560}
+.co-svc .co-biz-label{margin:0;font-family:Poppins,sans-serif;font-weight:600;font-size:13px;letter-spacing:2px;color:#0070B8 !important}
+.co-svc .co-door-arw{position:absolute;right:22px;top:50%;transform:translateY(-50%);font-size:22px !important;color:inherit !important}
+.co-svc-doors a:focus-visible{outline:3px solid #0093E9;outline-offset:3px}
+@keyframes caret{0%,49%{opacity:1}50%,100%{opacity:0}}
+@media (max-width:860px){
+  .co-svc{padding:28px 20px}
+  .co-svc-head{flex-direction:column;gap:18px}
+  .co-svc-logo{height:52px;padding:0 22px;gap:9px}
+  .co-svc-logo .hash{width:23px;height:23px}.co-svc-logo .name{font-size:23px}.co-svc-logo .caret{height:22px}
+  .co-svc-doors{grid-template-columns:minmax(0,1fr)}
+}
+@media (prefers-reduced-motion:reduce){ .co-svc-doors a{transition:none} .co-svc-logo .caret{animation:none} }

diff --git a/assets/recruit-jobs.js b/assets/recruit-jobs.js
@@ -20,7 +20,7 @@ var RECRUIT_COMMON = {
   place: '東京都新宿区西新宿3-9-7 フロンティア新宿タワーオフィス3F',
   hours: '9:30〜18:30（休憩 60 分）',
   holidays: '完全週休 2 日（土日祝）、年末年始、夏季休暇など（年間休日 125 日）',
-  want: '未経験歓迎。20 代のメンバーが中心に活躍中。成長意欲のある方',
+  want: '未経験歓迎。20代のメンバーが中心に活躍中。成長意欲のある方',
   benefits: '社会保険完備、交通費支給、産前産後・育児休業、慶弔休暇、定期健康診断、フリードリンク、ワーケーション手当、書籍購入手当',
   // 選考は 3 職種とも同じ（ページの「採用の流れ」と同じ書き方）
   selection: ['新卒：エントリー → 会社説明会 → 書類選考 → 一次面接 → 現場体験（ワーク）→ 最終面接 → 内定', '中途：書類選考 → 一次面接 → 最終面接 → 内定']
@@ -35,9 +35,9 @@ var RECRUIT_JOBS = [
     employment: '正社員',
     salary: '年収 360万〜550万円＋インセンティブ',
     openings: '2〜8 名',
-    catch: '20 代の人生の分岐点に伴走し、成果で応える仕事',
+    catch: '20代の人生の分岐点に伴走し、成果で応える仕事',
     detail: [
-      ['仕事内容', '20 代の求職者に寄り添い、自己分析・キャリアプランづくりから求人提案・面接対策・内定まで伴走します。'],
+      ['仕事内容', '20代の求職者に寄り添い、自己分析・キャリアプランづくりから求人提案・面接対策・内定まで伴走します。'],
       ['入社後の流れ', '先輩 CA の補佐 → 一人で求職者を担当 → チームマネジメントにも挑戦できます。'],
       ['身につく力', ['カウンセリング・提案力', '業界知識と市場価値を見る目', '目標達成力とマネジメント経験']],
       ['対象', RECRUIT_COMMON.want],

diff --git a/hashtag/column.html b/hashtag/column.html
@@ -65,7 +65,7 @@
 <section id="contact" class="alt">
   <div class="wrap">
     <div class="sec-head center"><p class="en-big" aria-hidden="true">CONTACT</p><h2>まずは、あなたの <span class="g-hash">#</span> を一緒に。</h2></div>
-    <p style="margin:0 0 26px;color:var(--sub)">無料・オンラインで 60 分。平日の夜や土日も、空いている日時を選ぶだけで予約できます。</p><a class="btn btn-main btn-cta" href="/hashtag/booking.html?from=contact" data-booking="contact">無料でキャリア相談する</a>
+    <p style="margin:0 0 26px;color:var(--sub)">無料・オンラインで 60 分。平日の夜や土日も、空いている日時を選ぶだけで予約できます。</p><div class="cta-row"><a class="btn btn-main btn-cta" href="/hashtag/booking.html?from=contact" data-booking="contact">無料でキャリア相談する</a><a class="btn btn-sub btn-line" href="https://lin.ee/qq1v7gG" data-line target="_blank" rel="noopener"><svg class="line-ico" viewBox="0 0 24 24" width="18" height="18" aria-hidden="true"><path d="M12 4C7.3 4 3.5 7.1 3.5 11c0 2.1 1.1 4 2.9 5.3L5.6 20l4-2.1c.8.2 1.6.3 2.4.3 4.7 0 8.5-3.1 8.5-7.1S16.7 4 12 4Z" fill="none" stroke="currentColor" stroke-width="1.8" stroke-linejoin="round"/></svg>LINE で気軽に相談<span class="sr">（LINE が開きます）</span></a></div>
   </div>
 </section>
 

diff --git a/hashtag/job.html b/hashtag/job.html
@@ -61,7 +61,7 @@
 <section id="contact" class="alt">
   <div class="wrap">
     <div class="sec-head center"><p class="en-big" aria-hidden="true">CONTACT</p><h2>まずは、あなたの <span class="g-hash">#</span> を一緒に。</h2></div>
-    <p style="margin:0 0 26px;color:var(--sub)">無料・オンラインで 60 分。平日の夜や土日も、空いている日時を選ぶだけで予約できます。</p><a class="btn btn-main btn-cta" href="/hashtag/booking.html?from=contact" data-booking="contact">無料でキャリア相談する</a>
+    <p style="margin:0 0 26px;color:var(--sub)">無料・オンラインで 60 分。平日の夜や土日も、空いている日時を選ぶだけで予約できます。</p><div class="cta-row"><a class="btn btn-main btn-cta" href="/hashtag/booking.html?from=contact" data-booking="contact">無料でキャリア相談する</a><a class="btn btn-sub btn-line" href="https://lin.ee/qq1v7gG" data-line target="_blank" rel="noopener"><svg class="line-ico" viewBox="0 0 24 24" width="18" height="18" aria-hidden="true"><path d="M12 4C7.3 4 3.5 7.1 3.5 11c0 2.1 1.1 4 2.9 5.3L5.6 20l4-2.1c.8.2 1.6.3 2.4.3 4.7 0 8.5-3.1 8.5-7.1S16.7 4 12 4Z" fill="none" stroke="currentColor" stroke-width="1.8" stroke-linejoin="round"/></svg>LINE で気軽に相談<span class="sr">（LINE が開きます）</span></a></div>
   </div>
 </section>
 

diff --git a/hashtag/jobs.html b/hashtag/jobs.html
@@ -68,7 +68,7 @@
 <section id="contact" class="alt">
   <div class="wrap">
     <div class="sec-head center"><p class="en-big" aria-hidden="true">CONTACT</p><h2>まずは、あなたの <span class="g-hash">#</span> を一緒に。</h2></div>
-    <p style="margin:0 0 26px;color:var(--sub)">無料・オンラインで 60 分。平日の夜や土日も、空いている日時を選ぶだけで予約できます。</p><a class="btn btn-main btn-cta" href="/hashtag/booking.html?from=contact" data-booking="contact">無料でキャリア相談する</a>
+    <p style="margin:0 0 26px;color:var(--sub)">無料・オンラインで 60 分。平日の夜や土日も、空いている日時を選ぶだけで予約できます。</p><div class="cta-row"><a class="btn btn-main btn-cta" href="/hashtag/booking.html?from=contact" data-booking="contact">無料でキャリア相談する</a><a class="btn btn-sub btn-line" href="https://lin.ee/qq1v7gG" data-line target="_blank" rel="noopener"><svg class="line-ico" viewBox="0 0 24 24" width="18" height="18" aria-hidden="true"><path d="M12 4C7.3 4 3.5 7.1 3.5 11c0 2.1 1.1 4 2.9 5.3L5.6 20l4-2.1c.8.2 1.6.3 2.4.3 4.7 0 8.5-3.1 8.5-7.1S16.7 4 12 4Z" fill="none" stroke="currentColor" stroke-width="1.8" stroke-linejoin="round"/></svg>LINE で気軽に相談<span class="sr">（LINE が開きます）</span></a></div>
   </div>
 </section>
 

diff --git a/assets/recruit.css b/assets/recruit.css
@@ -41,10 +41,6 @@
 .rc-appeal li{display:flex;gap:24px;align-items:flex-start}
 .rc-appeal .rc-no{font-size:28px;line-height:1.2;letter-spacing:1px}
 .rc-appeal h3{margin:0 0 6px}
-/* 事業内容 */
-.rc-link-card{display:block;text-decoration:none;transition:box-shadow .2s}
-.rc-link-card:hover{box-shadow:0 12px 32px rgba(29,38,46,.08)}
-.rc-link-card .more{display:inline-block;margin-top:14px;font-weight:700;font-size:14px}
 /* こだわりのワーク＆ライフ環境 */
 .rc-env{display:grid;gap:16px;grid-template-columns:repeat(3,minmax(0,1fr))}
 .rc-env h4{font-size:19px}
@@ -138,5 +134,5 @@
   .rc-entry .btn{width:100%;min-width:0}
 }
 @media (prefers-reduced-motion:reduce){
-  .rc-pnav a,.rc-link-card,.rc-plus::after{transition:none}
+  .rc-pnav a,.rc-plus::after{transition:none}
 }

diff --git a/corp.html b/corp.html
@@ -65,7 +65,7 @@
 </section>
 <section id="area" class="alt">
   <div class="wrap">
-    <div class="sec-head"><p class="en-big" aria-hidden="true">AREA</p><h2>弊社のサービス領域</h2></div>
+    <div class="sec-head"><p class="en-big" aria-hidden="true">AREA</p><h2>私たちのサービス領域</h2></div>
     <div class="grid g3">
       <div class="card"><h3>採用マーケティング</h3><ul class="list"><li>人材紹介活用戦略立案</li><li>人材紹介会社選定</li><li>人材紹介会社コントロール</li></ul></div>
       <div class="card"><h3>母集団形成</h3><ul class="list"><li>ダイレクトスカウト戦略立案</li><li>求人媒体・スカウトDB選定</li><li>スカウト業務代行</li></ul></div>
